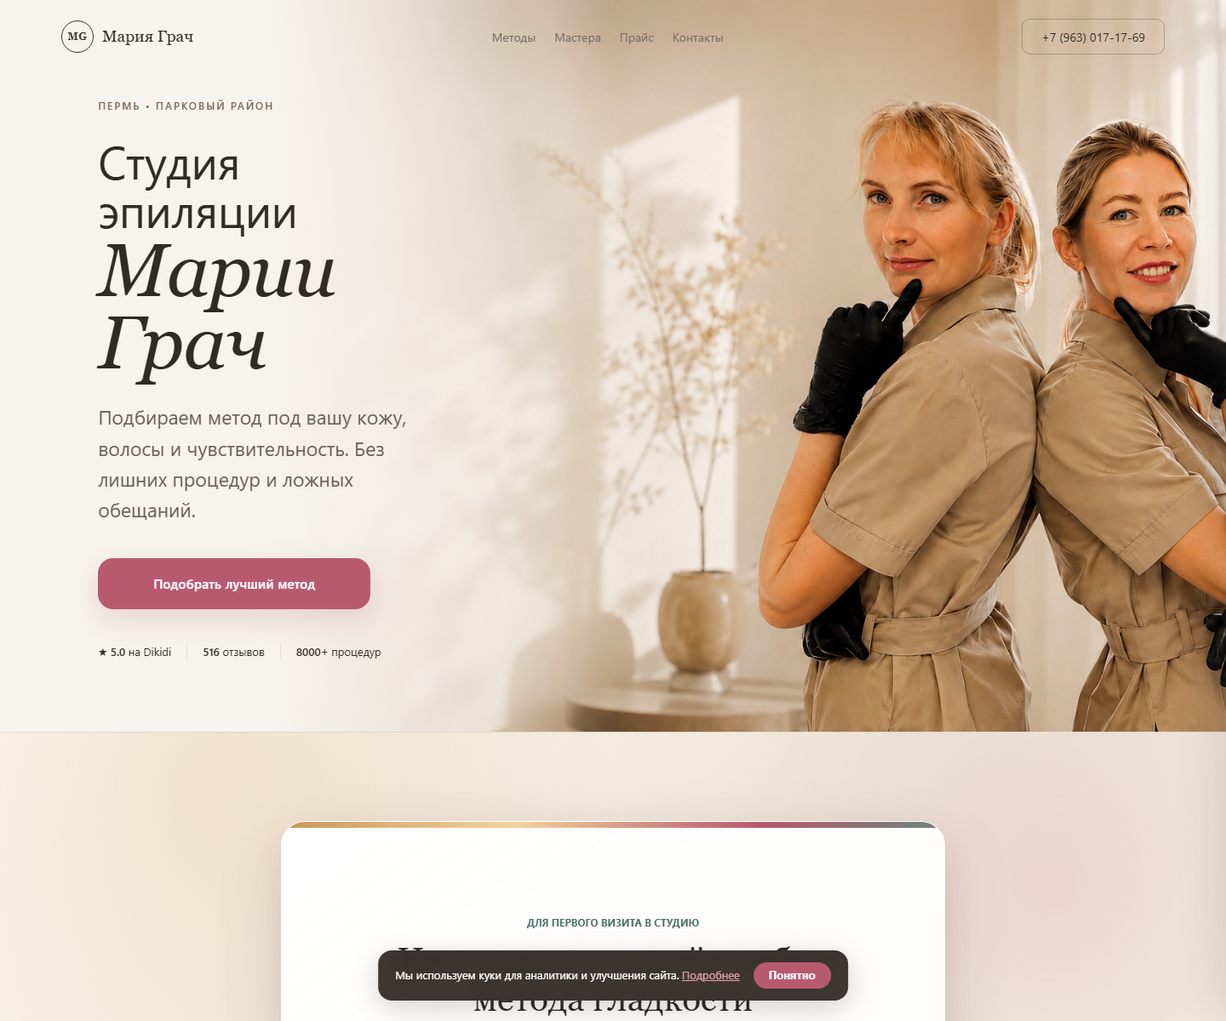
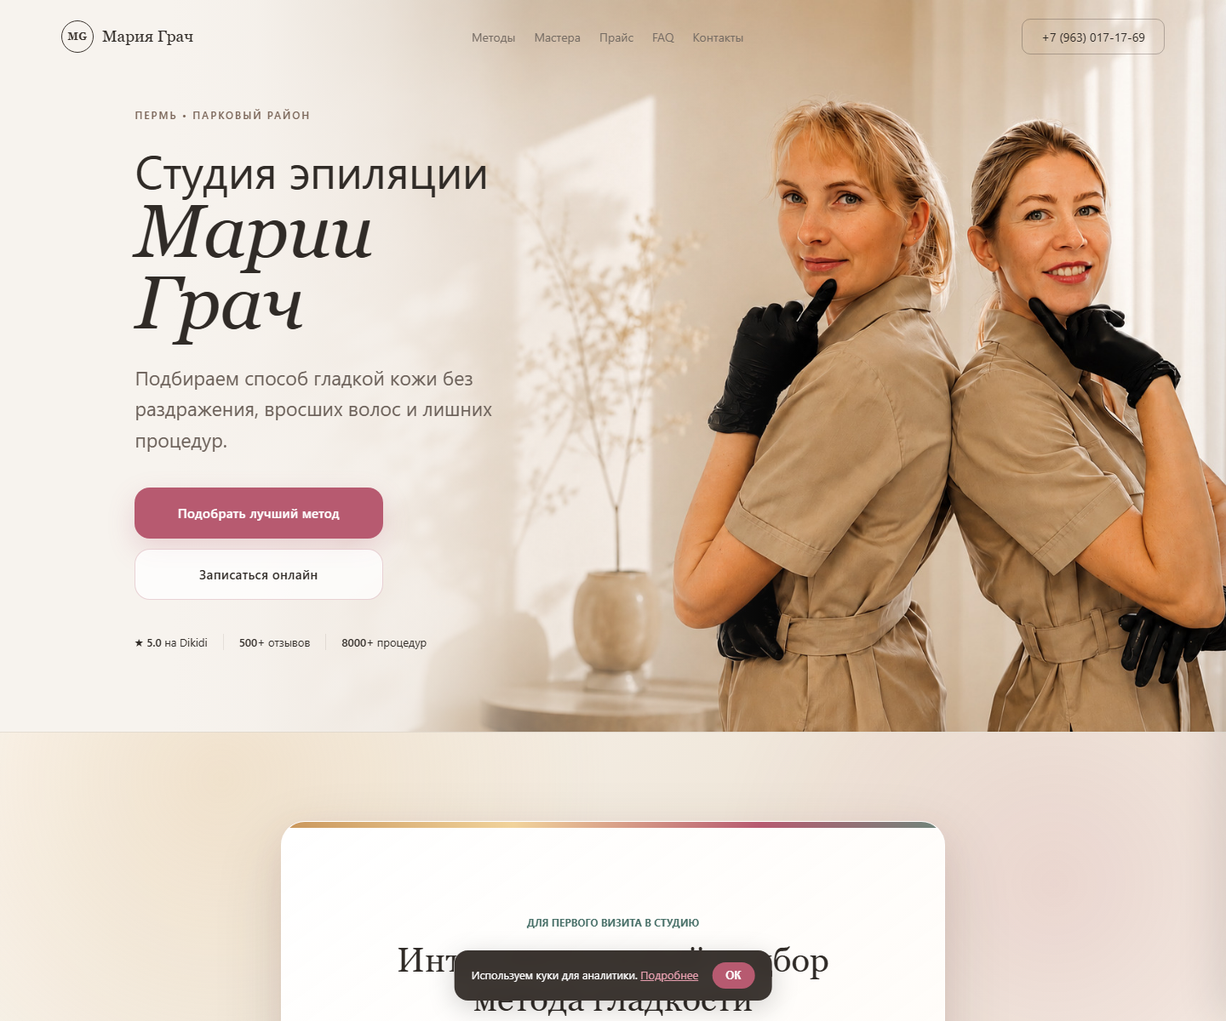
Update Grach case presentation

diff --git a/index.html b/index.html
@@ -29,7 +29,7 @@
   }
   </script>
 
-  <link rel="stylesheet" href="styles.css" />
+  <link rel="stylesheet" href="styles.css?v=20260527-3" />
   <link rel="preconnect" href="https://fonts.googleapis.com" />
   <link rel="preconnect" href="https://fonts.gstatic.com" crossorigin />
   <link href="https://fonts.googleapis.com/css2?family=Inter:wght@400;500;600&display=swap" rel="stylesheet" />
@@ -88,7 +88,7 @@
             <span class="package-name">Мини-сайт</span>
             <span class="package-price">40 000 ₽</span>
           </div>
-          <p class="package-desc">Одна страница, выстроенная под запись. Форма → Telegram, мобильная версия, базовое SEO.</p>
+          <p class="package-desc">Одна страница, выстроенная под запись. Форма → Telegram, мобильная версия и базовая подготовка для поисковиков.</p>
           <p class="package-term">Срок: от 5 дней</p>
           <p class="package-for">Подходит, если: один мастер или одно направление, нужна рабочая точка входа из соцсетей, мессенджеров или рекламы.</p>
           <button class="accordion-toggle" aria-expanded="false">Что входит <span class="accordion-arrow">↓</span></button>
@@ -96,10 +96,10 @@
             <ul class="include-list">
               <li>разбор услуг, аудитории, текущих соцсетей и точки записи</li>
               <li>структура одной страницы под конкретный бизнес</li>
-              <li>тексты: заголовки, описания блоков, CTA, услуги</li>
+              <li>тексты: заголовки, описания блоков, кнопки и услуги</li>
               <li>индивидуальный дизайн</li>
-              <li>адаптивная вёрстка: телефон, планшет, desktop</li>
-              <li>первый экран: оффер, город, главное действие</li>
+              <li>корректный вид сайта на телефоне, планшете и компьютере</li>
+              <li>первый экран: сразу понятно, чем вы помогаете, где работаете и как записаться</li>
               <li>блок услуг: до 5–7 услуг</li>
               <li>прайс</li>
               <li>блок доверия: опыт, особенности, подход</li>
@@ -108,7 +108,7 @@
               <li>контакты: адрес, телефон, мессенджеры, карта</li>
               <li>кнопки онлайн-записи: Dikidi / YClients / Telegram</li>
               <li>форма заявки → Telegram</li>
-              <li>базовое SEO: title, description, заголовки, alt-тексты</li>
+              <li>базовая подготовка для поисковиков: название страницы, описание, структура и подписи к изображениям</li>
               <li>Яндекс.Метрика, по необходимости</li>
               <li>политика конфиденциальности и согласие рядом с формой</li>
               <li>проверка перед запуском</li>
@@ -126,31 +126,31 @@
             <span class="package-name">Сайт-воронка</span>
             <span class="package-price">80 000 ₽</span>
           </div>
-          <p class="package-desc">Полный запуск под ключ: разбор студии, структура, тексты, дизайн, вёрстка, интеграции, аналитика.</p>
+          <p class="package-desc">Полный запуск под ключ: разбираю студию, собираю структуру и тексты, оформляю сайт, подключаю формы и аналитику.</p>
           <p class="package-term">Срок: от 7 дней</p>
-          <blockquote class="package-quote">На выходе не макет. Рабочий сайт, который можно сразу показывать клиентам.</blockquote>
+          <blockquote class="package-quote">Сайт помогает клиенту не просто посмотреть, а понять услугу, поверить вам и оставить заявку без лишних шагов.</blockquote>
           <p class="package-for">Подходит, если: несколько услуг или мастеров, хочется понимать откуда приходят клиенты.</p>
           <button class="accordion-toggle" aria-expanded="false">Что входит <span class="accordion-arrow">↓</span></button>
           <div class="accordion-body">
             <ul class="include-list">
               <li>разбор студии, услуг и текущей упаковки</li>
               <li>мини-аудит: что сейчас мешает клиенту понять и записаться</li>
-              <li>структура воронки под конкретный бизнес</li>
+              <li>логика страницы под конкретный бизнес: от первого экрана до заявки</li>
               <li>упаковка оффера: что вы делаете, для кого, почему к вам</li>
               <li>тексты всех блоков страницы</li>
               <li>индивидуальный дизайн</li>
-              <li>адаптивная вёрстка</li>
-              <li>первый экран, доверие, услуги, прайс, мастера, отзывы, FAQ, CTA</li>
+              <li>корректный вид сайта на телефоне, планшете и компьютере</li>
+              <li>понятные блоки: кто вы, чем помогаете, сколько стоит, кто принимает, почему можно доверять и как записаться</li>
               <li>до 3 мастеров: карточки с фото и описанием</li>
               <li>до 4 категорий услуг</li>
               <li>форма заявки → Telegram</li>
               <li>кнопки онлайн-записи: Dikidi / YClients / Telegram</li>
               <li>простой квиз до 3 вопросов, если нужен</li>
               <li>Яндекс.Метрика + цели на формы и запись</li>
-              <li>базовое SEO: title, description, заголовки, alt-тексты, favicon</li>
+              <li>базовая подготовка для поисковиков: название страницы, описание, структура, подписи к изображениям и иконка сайта</li>
               <li>политика конфиденциальности и согласие рядом с формой</li>
-              <li>публикация, подключение домена, проверка SSL</li>
-              <li>QA перед запуском</li>
+              <li>публикация сайта, подключение домена и проверка, что ссылка открывается безопасно</li>
+              <li>проверка перед запуском: мобильная версия, кнопки, формы, ссылки и заявки</li>
               <li>краткая инструкция: куда приходят заявки, что смотреть в Метрике</li>
             </ul>
             <p class="package-limits">Ограничения: 1 страница, до 4 категорий услуг, до 3 мастеров, 2 раунда правок.<br>Не входит: логотип с нуля, фотосессия, онлайн-оплата, CRM, реклама, SEO-продвижение.</p>
@@ -172,14 +172,14 @@
             <p style="margin:0 0 12px">Всё из воронки, плюс:</p>
             <ul class="include-list">
               <li>глубокий разбор бизнеса, конкурентов, пути клиента</li>
-              <li>UX-структура: несколько страниц или сложная логика</li>
+              <li>структура сайта, где несколько страниц или сложный выбор услуг остаются понятными</li>
               <li>продуктовая упаковка: офферы, сильные направления, возражения</li>
               <li>несколько мастеров с карточками</li>
               <li>несколько филиалов: отдельные блоки или страницы</li>
               <li>расширенный квиз с ветками</li>
-              <li>кастомные формы</li>
-              <li>расширенная аналитика: события, воронки, карты кликов</li>
-              <li>schema.org: полная разметка</li>
+              <li>формы под разные сценарии: консультация, подбор услуги, обратный звонок</li>
+              <li>подробная аналитика: что нажимают, куда переходят и где теряются</li>
+              <li>дополнительная техническая подготовка, чтобы поисковикам было проще понимать сайт</li>
               <li>инструкция по работе с сайтом</li>
             </ul>
             <p class="package-limits">Объём и стоимость фиксируются после брифа.<br>Не входит: онлайн-оплата, личный кабинет, сложные CRM, реклама, SEO-продвижение.</p>
@@ -195,7 +195,7 @@
   <section class="section cases" id="cases">
     <div class="container">
       <h2 class="section-title">Примеры работ</h2>
-      <p class="section-lead">Не макеты. Рабочие сайты с заявками, формами, аналитикой и понятным маршрутом до записи.</p>
+      <p class="section-lead">Показываю не картинки, а задачи: где клиент терялся, что изменилось на сайте и как теперь устроен путь до записи.</p>
       <div class="cases-grid">
 
         <div class="case">
@@ -204,16 +204,25 @@
           </a>
           <div class="case-body">
             <p class="case-location">Студия Марии Грач, Пермь</p>
-            <p>К опытному мастеру добавился новый. Нужно было выстроить запись к нему с нуля, без рекламы, только через сайт.</p>
-            <blockquote>Новый мастер не продаёт себя сам. Сайт должен сделать это за него.</blockquote>
-            <p>Собрала квиз-роутер: клиент отвечает на 3 вопроса и попадает к нужному мастеру. Форма уходит в Telegram, без CRM, без лишних шагов.</p>
+            <p>Студии нужен был сайт, который не просто красиво показывает мастеров, а ведёт человека к записи: выбрать метод, понять разницу между лазером, электроэпиляцией, воском и сахаром, увидеть доверие и быстро перейти в онлайн-запись.</p>
+            <blockquote>Хороший сайт для студии не продаёт “красоту”. Он снижает тревогу перед процедурой и помогает выбрать первый шаг.</blockquote>
+            <p>Собрала сайт-воронку с квизом, прайсом, FAQ, карточками мастеров, формой заявки в Telegram, ссылками на Dikidi и карты. После запуска доработала первый экран, отзывы, блок для мужчин и путь до записи.</p>
+            <ul class="case-results" aria-label="Что получилось">
+              <li><b>500+ отзывов</b><span>выведены как доверие на первом экране</span></li>
+              <li><b>3 вопроса</b><span>в квизе помогают выбрать метод</span></li>
+              <li><b>Dikidi + карты</b><span>ссылки на отзывы, запись и маршрут</span></li>
+            </ul>
             <ul class="case-tags" aria-label="Что сделано">
               <li>квиз на 3 вопроса</li>
               <li>Telegram-заявки</li>
               <li>Метрика и цели</li>
+              <li>Dikidi и карты</li>
               <li>путь до записи</li>
             </ul>
-            <a href="https://grach-studio.ru" target="_blank" rel="noopener" class="case-link">grach-studio.ru →</a>
+            <div class="case-links">
+              <a href="https://grach-studio.ru" target="_blank" rel="noopener" class="case-link">grach-studio.ru →</a>
+              <a href="https://dikidi.net/980738?p=1.pi-pr&o=8" target="_blank" rel="noopener" class="case-link case-link--muted">отзывы Dikidi →</a>
+            </div>
           </div>
         </div>
 
@@ -223,12 +232,12 @@
           </a>
           <div class="case-body">
             <p class="case-location">4spine, Пермь</p>
-            <p>Центр оздоровительных практик: 2 филиала, 13 специалистов, больше 20 услуг. Задача: сделать так, чтобы человек не запутался, а дошёл до записи.</p>
-            <blockquote>Когда услуг много, главная задача сайта: не показать всё, а помочь выбрать.</blockquote>
-            <p>Собрала на Next.js с разбивкой по филиалам и направлениям. Форма обратного звонка → Telegram. Аналитика с первого дня.</p>
+            <p>4spine давно работает в Перми, но старый сайт постепенно разросся: филиалы, услуги, специалисты, акции, больше 20 страниц. Информации стало много, а клиенту было всё сложнее понять, куда идти и что выбрать.</p>
+            <blockquote>Когда сайт годами обрастает разделами, он перестаёт вести клиента. Он просто хранит информацию.</blockquote>
+            <p>Пересобрала структуру: разделила филиалы и направления, упростила путь к услугам и записи, подключила форму обратного звонка в Telegram и аналитику.</p>
             <ul class="case-tags" aria-label="Что сделано">
-              <li>2 филиала</li>
-              <li>структура услуг</li>
+              <li>старый сайт → новая структура</li>
+              <li>20+ страниц</li>
               <li>форма → Telegram</li>
               <li>аналитика</li>
             </ul>
@@ -264,7 +273,7 @@
         <div class="faq-item">
           <button class="faq-toggle" aria-expanded="false">SEO и реклама входят?</button>
           <div class="faq-body">
-            <p>Базовое SEO входит: title, description, структура заголовков, alt-тексты, robots/sitemap при необходимости. Реклама не входит, но сайт можно подготовить под неё: CTA, форма, цели в Метрике, страница благодарности.</p>
+            <p>Базовая подготовка для поисковиков входит: нормальное название страницы, описание, понятная структура и подписи к изображениям. Реклама не входит, но сайт можно подготовить под неё: кнопки, форма, учёт заявок в Метрике и страница благодарности.</p>
           </div>
         </div>
 

diff --git a/styles.css b/styles.css
@@ -35,6 +35,9 @@ body {
 }
 
 a { color: inherit; }
+p, h1, h2, h3, blockquote, li {
+  overflow-wrap: anywhere;
+}
 
 /* ── Layout ── */
 .container {
@@ -57,6 +60,13 @@ a { color: inherit; }
   font-weight: 600;
   letter-spacing: -0.02em;
   margin-bottom: 40px;
+}
+.section-lead {
+  max-width: 640px;
+  margin: -24px 0 52px;
+  color: var(--gray-600);
+  font-size: 17px;
+  line-height: 1.6;
 }
 
 /* ── Buttons ── */
@@ -175,6 +185,7 @@ a { color: inherit; }
 }
 
 .package {
+  min-width: 0;
   border: 1.5px solid var(--gray-100);
   border-radius: var(--radius);
   padding: 32px;
@@ -317,6 +328,10 @@ a { color: inherit; }
 /* ── Cases ── */
 .cases { background: var(--gray-50); }
 
+.cases .section-lead {
+  margin-bottom: 64px;
+}
+
 .cases-grid {
   display: grid;
   grid-template-columns: repeat(2, 1fr);
@@ -324,6 +339,7 @@ a { color: inherit; }
 }
 
 .case {
+  min-width: 0;
   background: var(--white);
   border-radius: var(--radius);
   overflow: hidden;
@@ -370,6 +386,29 @@ a { color: inherit; }
   font-style: italic;
   color: var(--black);
 }
+.case-results {
+  list-style: none;
+  display: grid;
+  gap: 8px;
+  margin: 2px 0 0;
+}
+.case-results li {
+  display: grid;
+  gap: 2px;
+  padding: 12px 14px;
+  border: 1px solid var(--accent-border);
+  border-radius: var(--radius-sm);
+  background: var(--accent-soft);
+}
+.case-results b {
+  font-size: 14px;
+  line-height: 1.25;
+}
+.case-results span {
+  color: var(--gray-600);
+  font-size: 13px;
+  line-height: 1.35;
+}
 .case-tags {
   list-style: none;
   display: flex;
@@ -396,6 +435,15 @@ a { color: inherit; }
   transition: border-color 0.15s;
 }
 .case-link:hover { border-color: var(--black); }
+.case-links {
+  display: flex;
+  flex-wrap: wrap;
+  gap: 10px 16px;
+  margin-top: 2px;
+}
+.case-link--muted {
+  color: var(--gray-600);
+}
 
 /* ── FAQ ── */
 .faq { background: var(--white); }
@@ -577,4 +625,11 @@ a { color: inherit; }
   .package { padding: 24px; }
   .case-body { padding: 24px; }
   .section-title { margin-bottom: 28px; }
+  .section-lead {
+    margin: -12px 0 36px;
+    font-size: 16px;
+  }
+  .cases .section-lead {
+    margin-bottom: 42px;
+  }
 }
